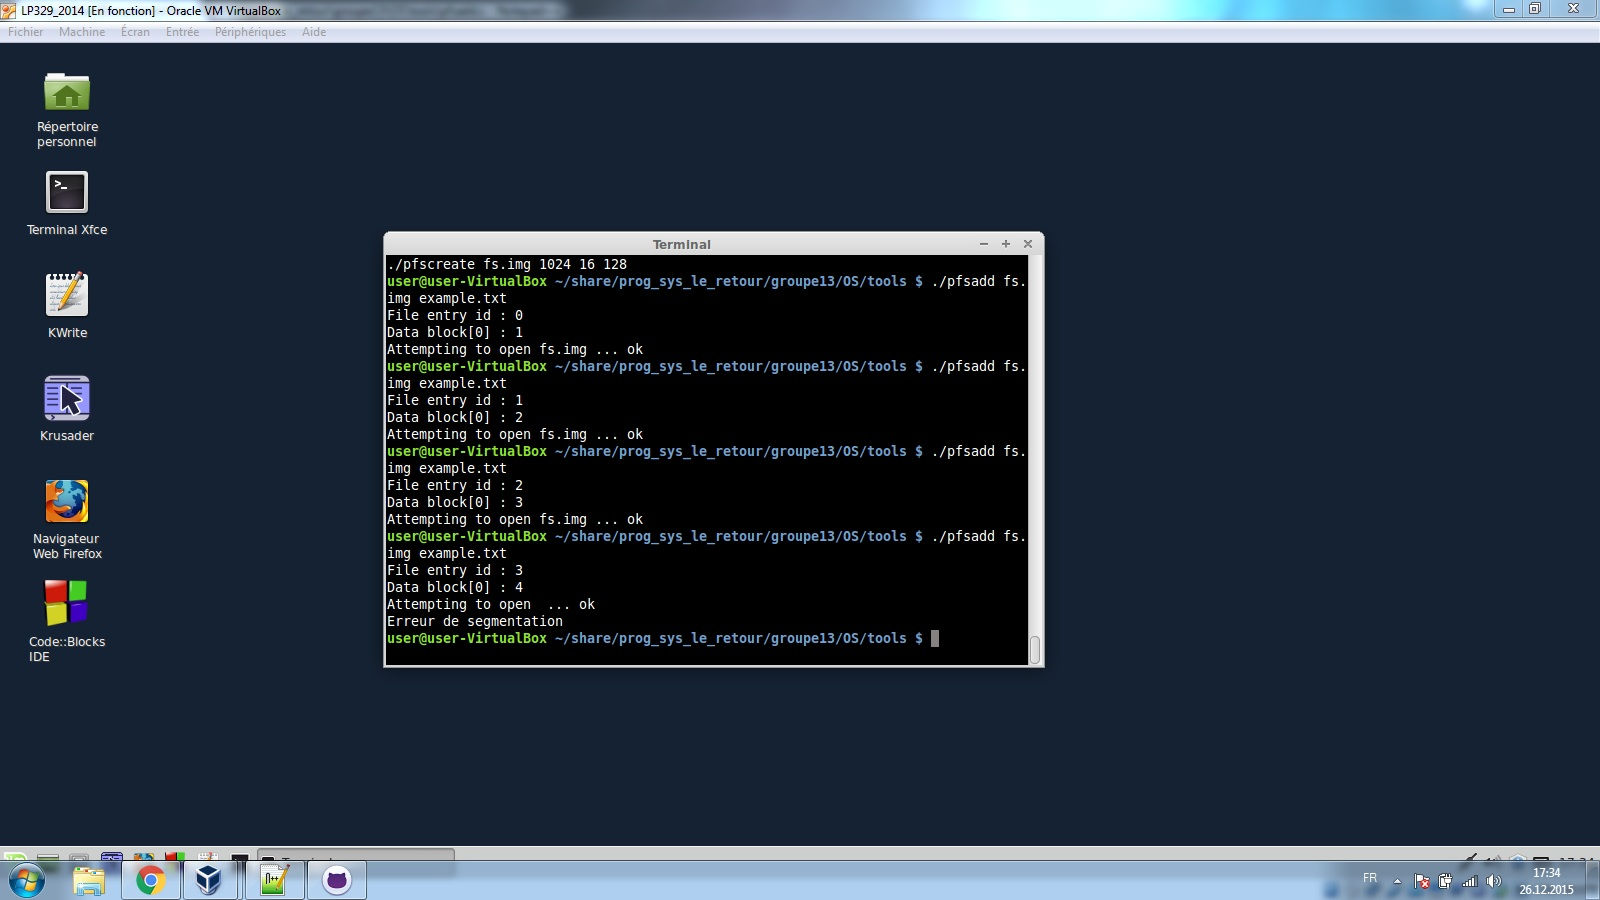
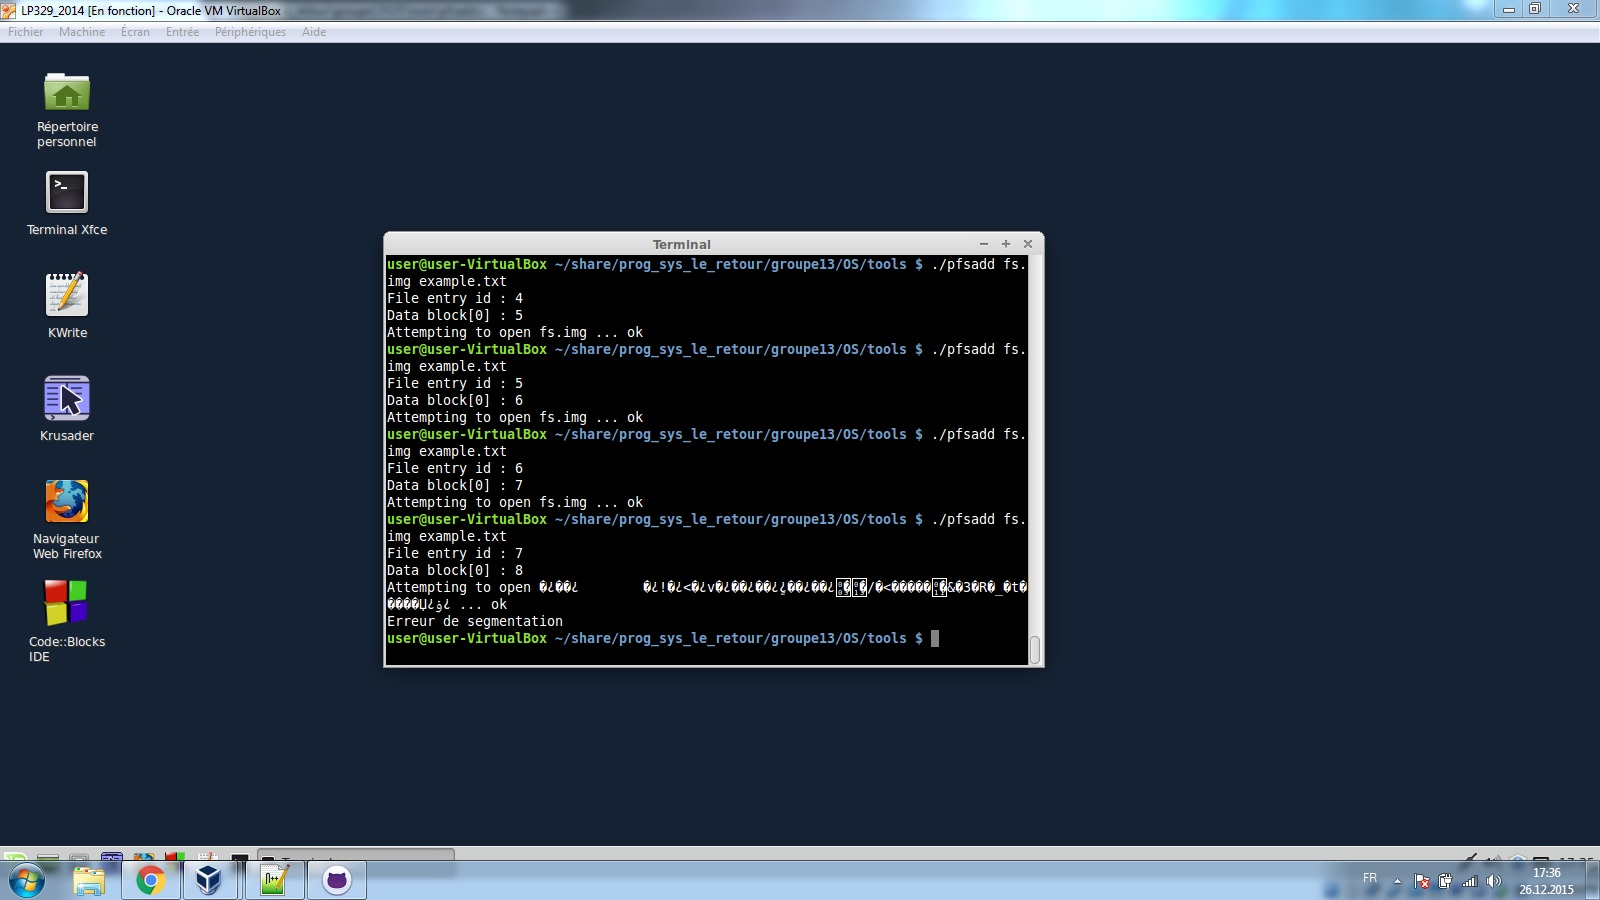
Partie 1 ok
Le bug ténébreux j'ai laissé tomber, aucune idée. Le reste fonctionne.

Changed region(s): [[0.2188, 0.28, 0.6562, 0.6844]]

diff --git a/groupe13/OS/tools/pfslist.c b/groupe13/OS/tools/pfslist.c
@@ -1,13 +1,55 @@
 #include "fs.h"
 
-// Liste
-void pfslist(filesystem *fs) {
-
-	// On parcourt le File Entries
-	int index = 0;
-	while (index < FILE_ENTRIES_NUM) {
-		if ((*fs).fe[index].name[0] != '\0')
-			printf("%s\n", (*fs).fe[index].name);
-		index++;
+// List files stored in the filesystem
+int pfslist(char* img) {
+	
+	// Open filesystem image
+	FILE* img_file;
+	if (!(img_file = fopen(img, "r+"))) {
+		printf("I/O error ! File %s could not be accessed.\n", img);
+		return IO_ERROR;
 	}
+
+	// Read image and extract Superblock infos (28 bytes)
+	superblock sb;
+	fread(&sb, sizeof(char), sizeof(superblock), img_file);
+	int block_size = sb.sectors_per_block * SECTOR_SIZE;
+	
+	// Block type definition
+	typedef char block[block_size];
+	
+	// Rest of the read structure
+	file_entry fe[sb.file_entry_nb];
+	block bitmap;
+	
+	// Read the rest of the file until the file entries
+	fread(&sb + sizeof(superblock), sizeof(char),       block_size - sizeof(superblock), img_file); 
+	fread(&bitmap,                  sizeof(char),       block_size,                      img_file);
+	fread(&fe,                      sizeof(file_entry), sb.file_entry_nb,                img_file);
+	
+	// Parse file entries
+	printf("Entry  File                  Size\n");
+	for (int i = 0; i < sb.file_entry_nb; i++)
+		if (fe[i].name[0] != '\0')
+			printf("[%3d]  %s           %4d\n", i, fe[i].name, fe[i].size);
+	
+	// Close file
+	fclose(img_file);
+	
+	// End of routine
+	return NO_ERROR;
+	
+}
+
+int main(int argc, char** argv) {
+	
+	// Arguments check
+	if (argc < 2) {
+		printf("Syntax Error ! Usage : %s <filesystem_image>\n", argv[0]);
+		return SYNTAX_ERROR;
+	}
+	
+	// List files
+	return pfslist(argv[1]);
+	
 }

diff --git a/groupe13/OS/tools/pfsadd.c b/groupe13/OS/tools/pfsadd.c
@@ -121,13 +121,10 @@ int pfsadd(char* img, char* input) {
 	
 	// Overwrite existing image with filesystem structure
 	fclose(img_file);
-	printf("Attempting to open %s ... ", img);
-	img_file = fopen(img, "w+");
-	printf("ok (%d)\n", img_file);/*
 	if (!(img_file = fopen(img, "w+"))) {
 		printf("I/O error ! File %s could not be accessed.\n", img);
 		return IO_ERROR;
-	}*/
+	}
 	fwrite(&sb,     sizeof(char),       block_size,       img_file);
 	fwrite(&bitmap, sizeof(char),       block_size,       img_file);
 	fwrite(&fe,     sb.file_entry_size, sb.file_entry_nb, img_file);

diff --git a/groupe13/OS/tools/fs.h b/groupe13/OS/tools/fs.h
@@ -55,7 +55,7 @@ typedef struct file_entry {
 		int   size;
 		short blocks[MAX_BLOCKS];
 
-} file_entry __attribute__((packed));
+} __attribute__((packed)) file_entry ;
 
 typedef struct superblock {
 
@@ -66,6 +66,6 @@ typedef struct superblock {
 		int  file_entry_size;
 		int  data_blocks;
 
-} superblock __attribute__((packed));
+} __attribute__((packed)) superblock;
 
 #endif
